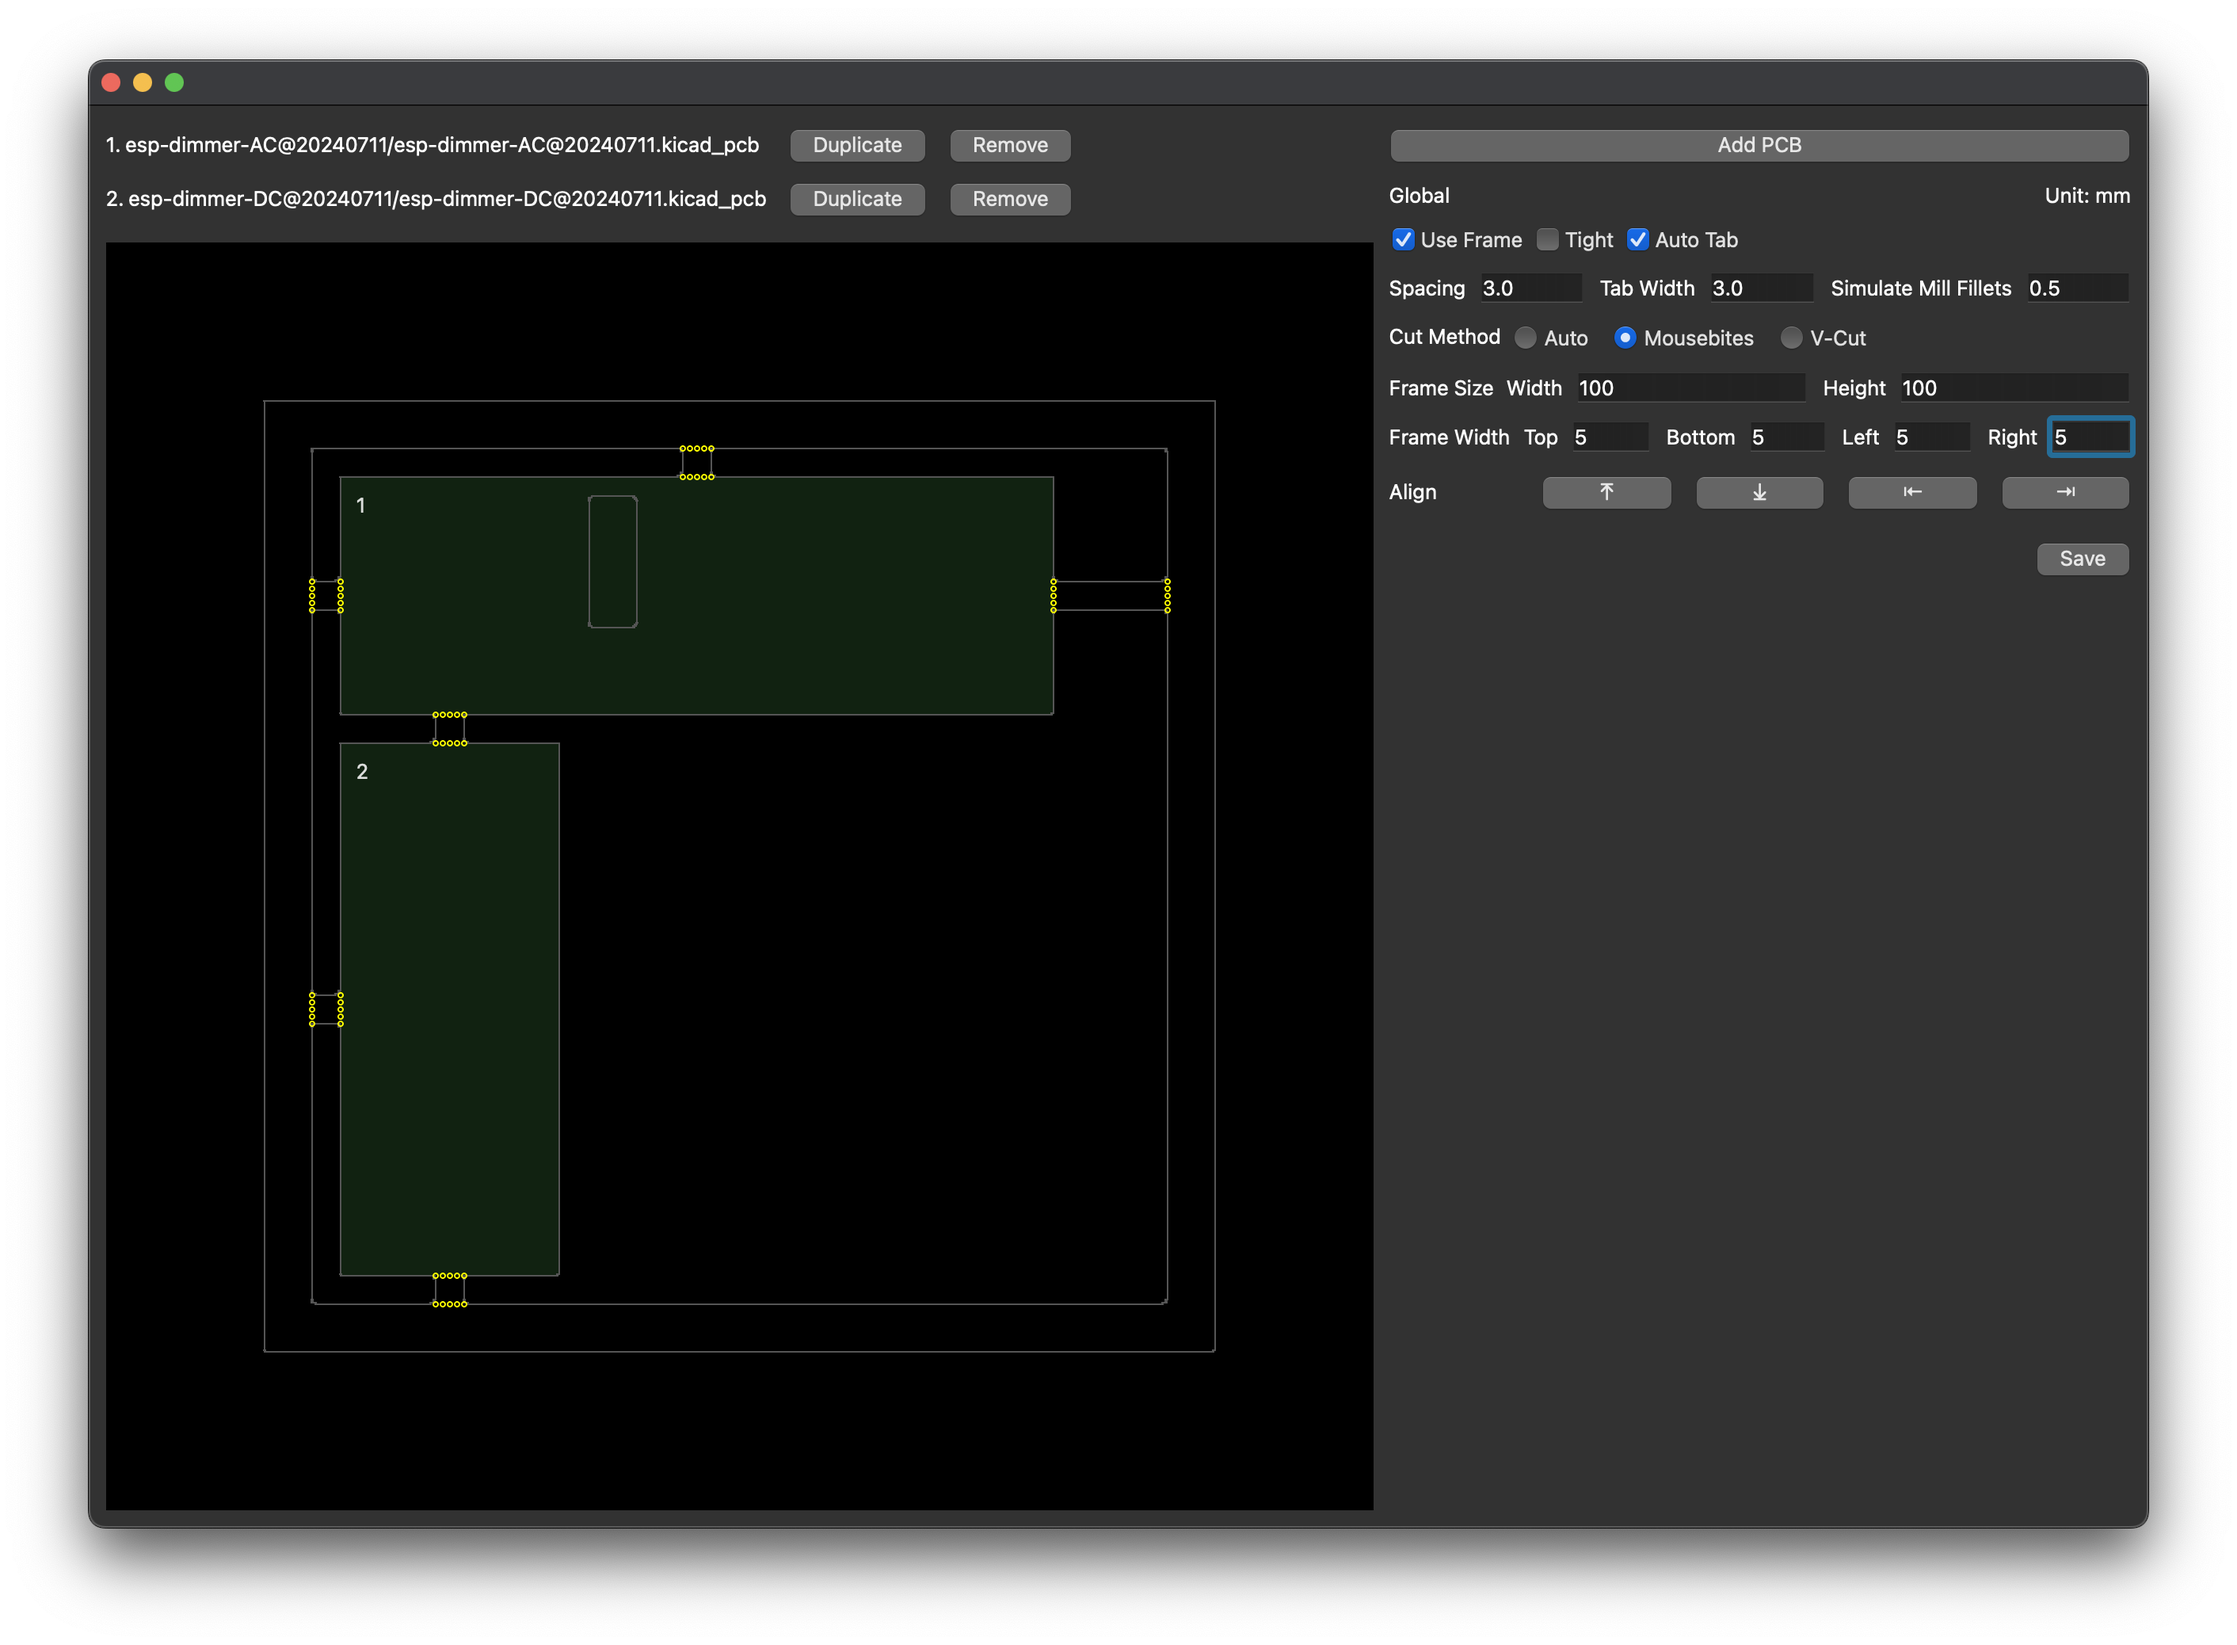
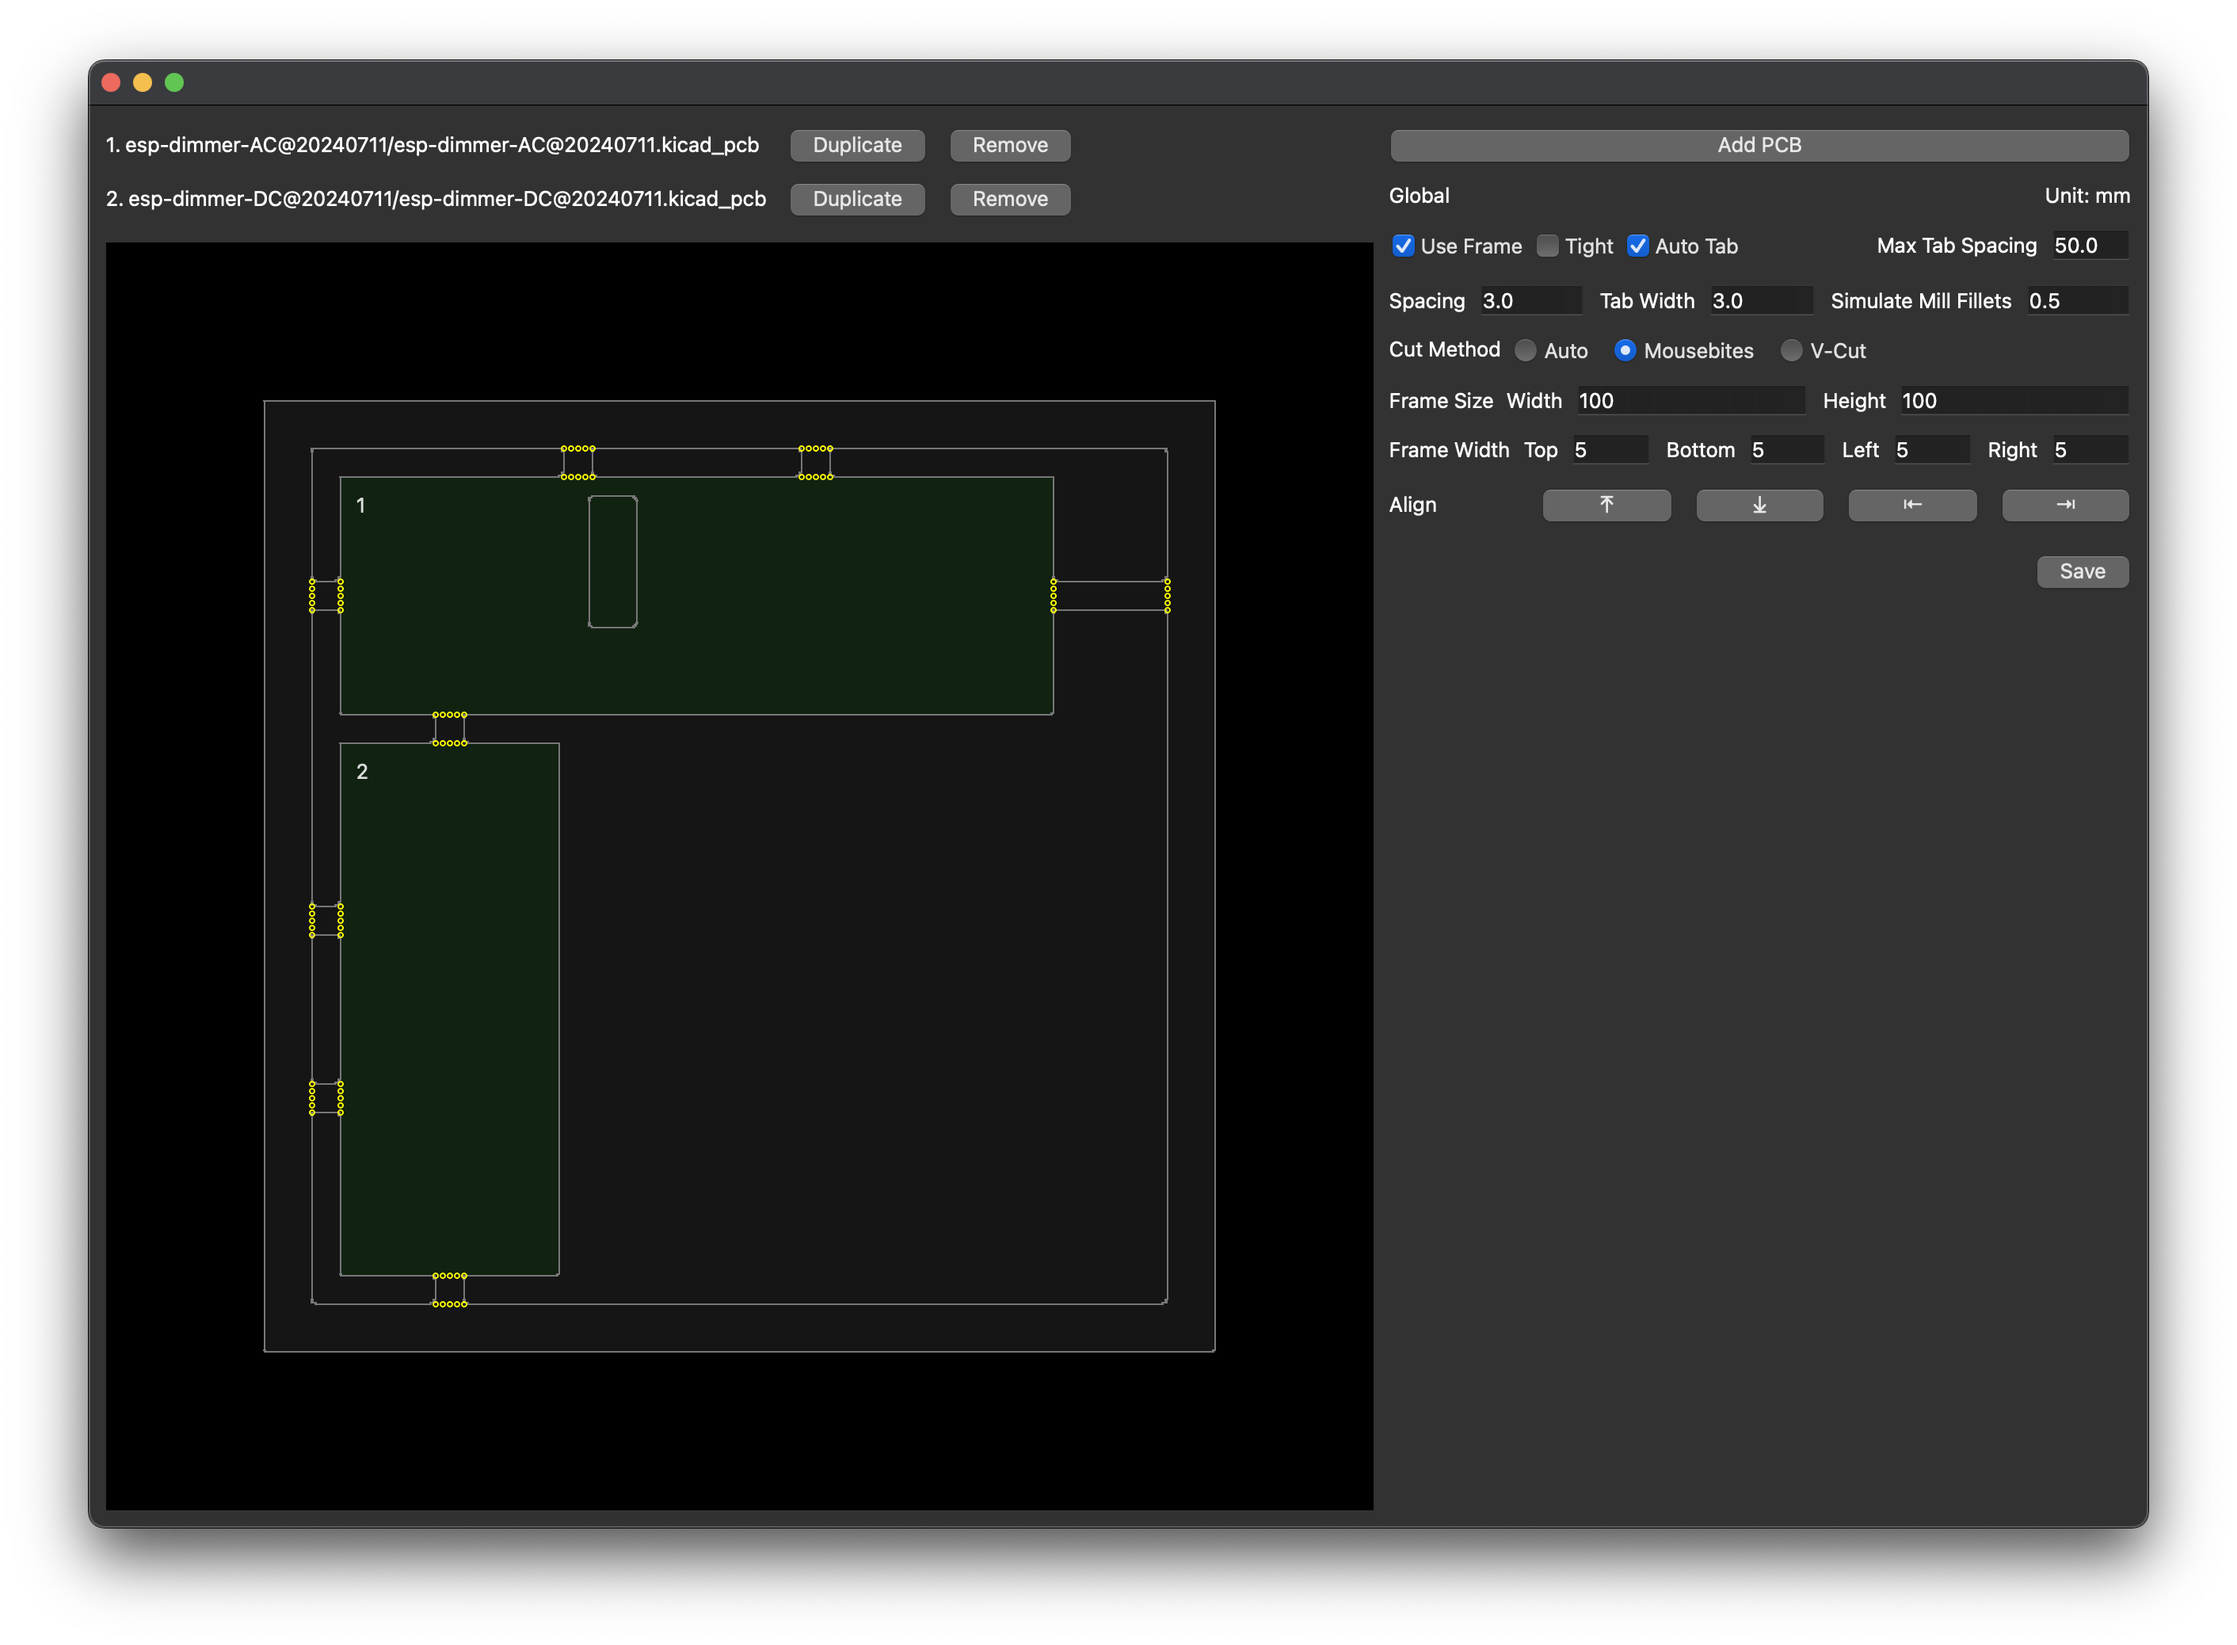
update screenshots

diff --git a/ui.py b/ui.py
@@ -804,7 +804,7 @@ class UI(Application):
         if self.state.use_frame:
             x1, y1 = self.toCanvas(0, 0)
             x2, y2 = self.toCanvas(self.state.frame_width*mm, self.state.frame_height*mm)
-            canvas.drawRect(x1, y1, x2, y2, fill=0x222222)
+            canvas.drawRect(x1, y1, x2, y2, fill=0x151515)
 
         for i,pcb in enumerate(pcbs):
             if pcb is self.state.focus:
